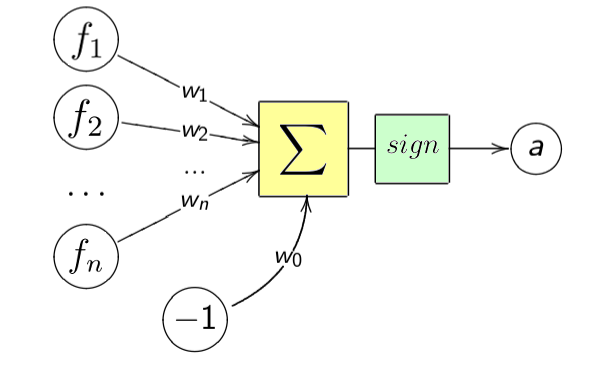
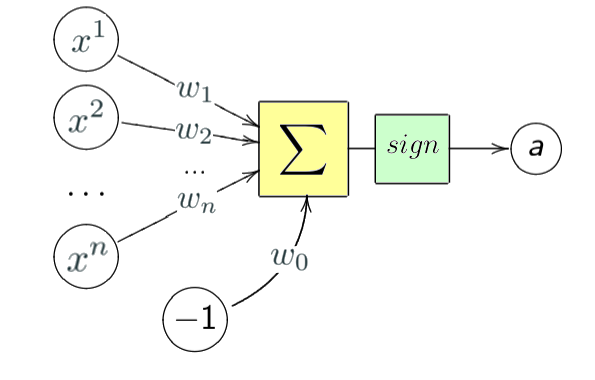
lecture 6

diff --git a/lecture6/lecture6.tex b/lecture6/lecture6.tex
@@ -12,43 +12,61 @@
 
 \section{Мотивирующий пример}
 
+{\foot{\href{https://www.kaggle.com/c/dogs-vs-cats}{Dogs vs. Cats}}
 \begin{frame}{Пример}
-  \TODO{пример}  
+  \centering
+  \includegraphics[width=0.9 \textwidth, keepaspectratio]{images/catvsdog}
+\end{frame}
+}
+
+{\foot{\href{https://www.kaggle.com/c/dogs-vs-cats}{Dogs vs. Cats}}
+\begin{frame}{Пример}
+  \centering
+  \includegraphics[width=0.9 \textwidth, keepaspectratio]{images/cats}
+\end{frame}
+}
+
+{\foot{\href{https://www.kaggle.com/c/dogs-vs-cats}{Dogs vs. Cats}}
+\begin{frame}{Пример}
+  \centering
+  \includegraphics[width=0.9 \textwidth, keepaspectratio]{images/dogs}
+\end{frame}
+}
+
+\begin{frame}{Постановка задачи}
+  $X = \mathbb{R}^n$, ${Y = \left\{ -1, + 1\right\}}$\\
+  ${X^l = (x_i, y_i)_{i = 1}^l}$ -- обучающая выборка\\
+  \bigbreak
+  \alert{Задача}: Построить алгоритм ${a \colon X \rightarrow Y}$, способный классифицировать произвольный объект ${x \in X}$.\\
+  
 \end{frame}
 
+{\foot{decision surface, decision boundary}
+\begin{frame}\frametitle{Перцептрон}
+  \alert{Идея}: Назначим каждому признаку объекта некоторый вес. Посчитаем взвешенную сумму и если она больше некоторого порогового значения, отнесем объект к искомому классу. \\
+  \bigbreak \pause
+  Получается, что на самом деле мы ищем разделяющую поверхность.
+\end{frame}
+}
+
+\begin{frame}{Пример}
+  \centering
+  \includegraphics[width=0.9 \textwidth, keepaspectratio]{images/catdog1}
+\end{frame}
 
 \begin{frame}{Постановка задачи}
   $X = \mathbb{R}^n$, ${Y = \left\{ -1, + 1\right\}}$\\
   ${X^l = (x_i, y_i)_{i = 1}^l}$ -- обучающая выборка\\
   \bigbreak
   \alert{Задача}:\\
-  $(n-1)$-мерную гиперплоскость, которая разделяет данные как можно лучше.
-  \bigbreak \pause
-  Как можно лучше -- это как?
+  $(n-1)$-мерную гиперплоскость, которая разделяет данные.
 \end{frame}
-
-\begin{frame}{Пример}
-  \TODO{пример}  
-\end{frame}
-
-\begin{frame}{Постановка задачи}
-  Как можно лучше:\\
-  Два разделенных класса должны лежать как можно дальше от разделяющей гиперплоскости.
-\end{frame}
-
-%{\foot{decision surface, decision boundary}
-\begin{frame}\frametitle{Перцептрон}
-  \alert{Идея}: Назначим каждому признаку объекта некоторый вес. Посчитаем взвешенную сумму и если она больше некоторого порогового значения, отнесем объект к искомому классу. \\
-%  \bigbreak \pause
-%  \alert{Идея}: Получается, что на самом деле мы ищем разделяющую поверхность.
-\end{frame}
-%}
 
 \begin{frame}\frametitle{Модель McCulloch-Pitts}
   $X = \mathbb{R}^n$, ${Y = \left\{ -1, + 1\right\}}$\\
 	\pause
-	$$a(x,w) = \sigma(\sum\limits_{j=1}^n w_j f_j(x) - w_0) = \sigma(\langle w, x \rangle)$$\\
-  $f_j$ — числовые признаки, $j = 1,\dots, n$ \\	
+	$$a(x,w) = \sigma(\sum\limits_{j=1}^n w_j x^j - w_0) = \sigma(\langle w, x \rangle)$$\\
+  $x^j$ — числовые признаки, $j = 1,\dots, n$ \\	
 	$w_j \in R$ -- веса признаков\\
 	$\sigma(s)$ -- функция активации (например, $\sign$)
 	\pause
@@ -129,6 +147,26 @@
            	\EndRepeat
         \EndFunction
     \end{algorithmic}
+\end{frame}
+
+\begin{frame}{Постановка задачи}
+  $X = \mathbb{R}^n$, ${Y = \left\{ -1, + 1\right\}}$\\
+  ${X^l = (x_i, y_i)_{i = 1}^l}$ -- обучающая выборка\\
+  \bigbreak
+  \alert{Задача}:\\
+  $(n-1)$-мерную гиперплоскость, которая разделяет данные \alert{как можно лучше}.
+  \bigbreak \pause
+  Как можно лучше -- это как?
+\end{frame}
+
+\begin{frame}{Пример}
+  \centering
+  \includegraphics[width=0.9 \textwidth, keepaspectratio]{images/catdog}
+\end{frame}
+
+\begin{frame}{Постановка задачи}
+  Как можно лучше:\\
+  Два разделенных класса должны лежать как можно дальше от разделяющей гиперплоскости.
 \end{frame}
 
 \begin{frame}\frametitle{Определение отступа}
@@ -259,7 +297,7 @@
 \begin{frame}\frametitle{Метод стохастического градиента}
 	$$\mathbf{w} =  \mathbf{w} - \alpha \sum\limits_{i=1}^l \mathcal{L}'(\langle \mathbf{w}, \mathbf{x_i}\rangle y_i)\mathbf{x_i}y_i$$\\
 	\bigbreak \pause
-	Давайте брать $(x_i, y_i)$ по одному и сразу обновлять вектор весов
+	\alert{Идея}: Давайте брать $(x_i, y_i)$ по одному и сразу обновлять вектор весов
 \end{frame}
 
 \begin{frame}\frametitle{Алгоритм}
